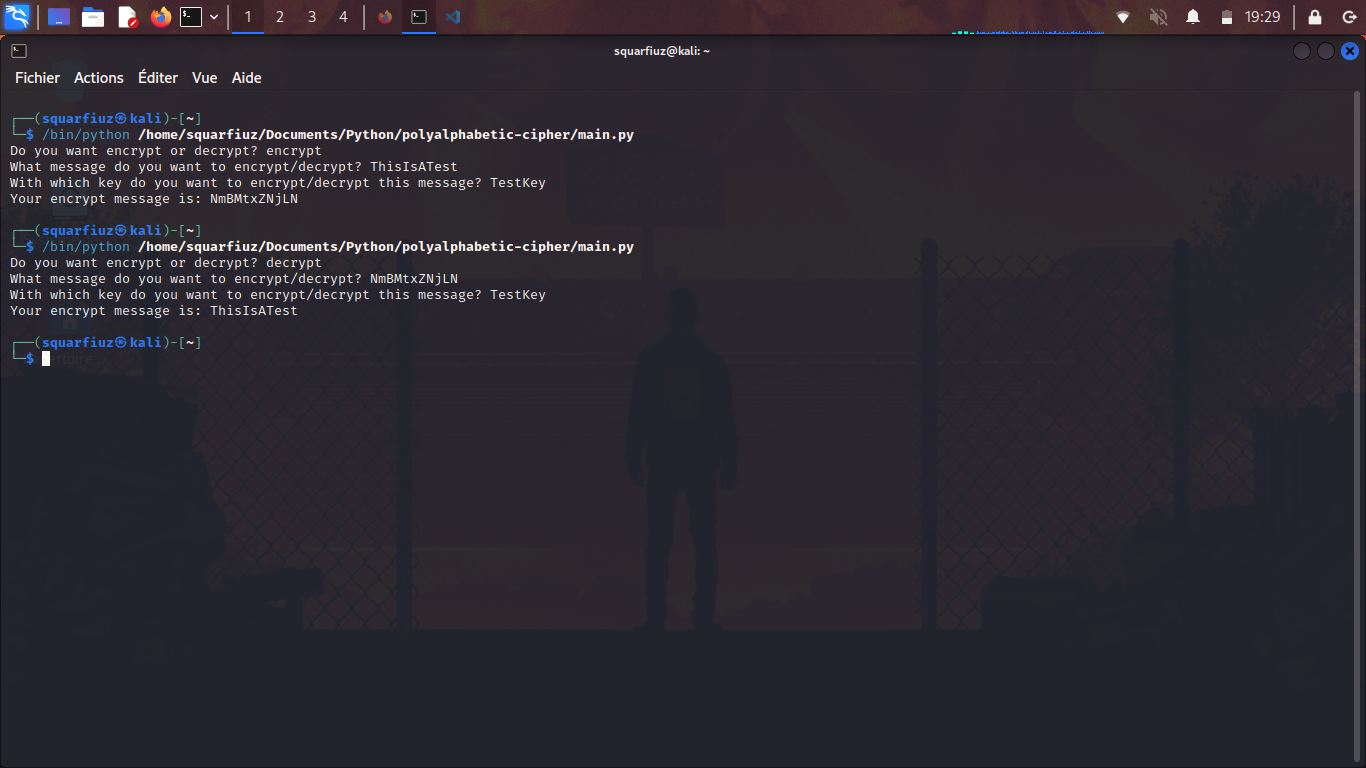
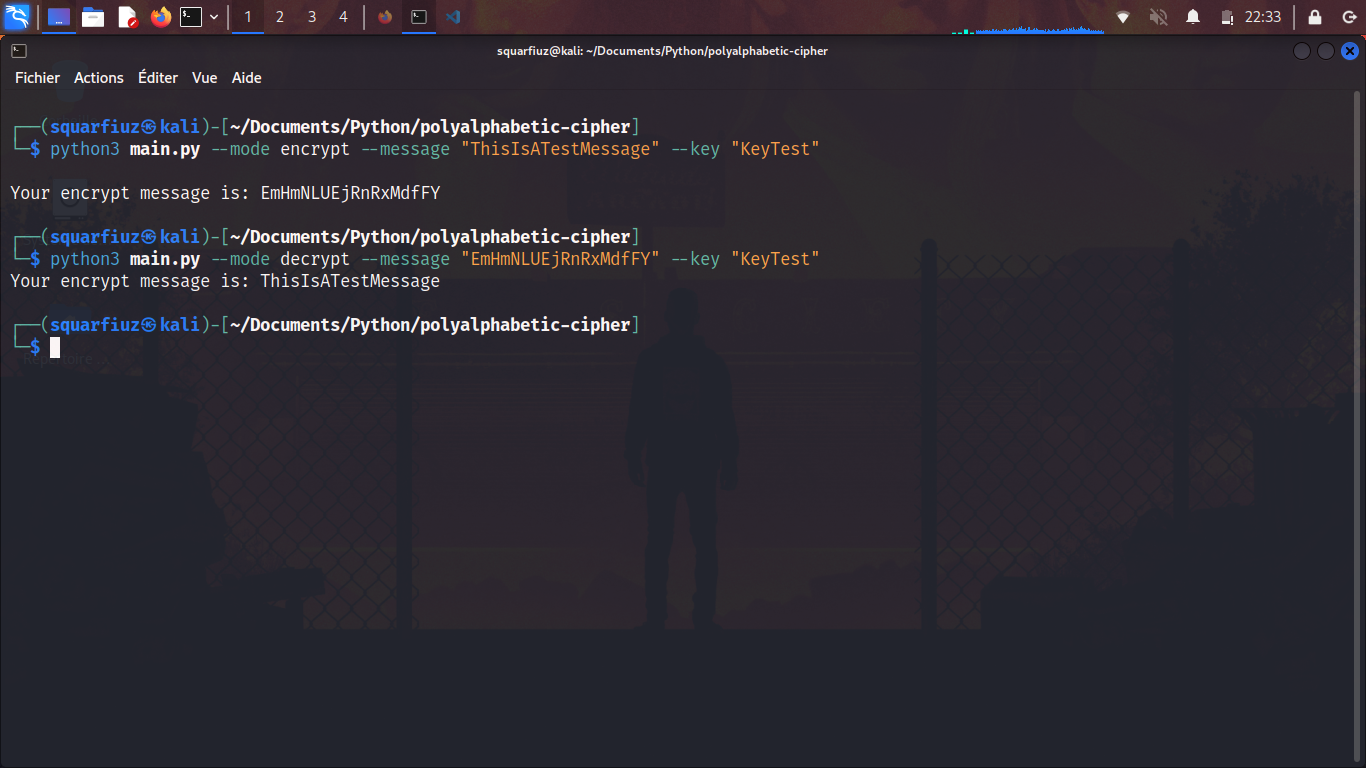
Add CLI

diff --git a/main.py b/main.py
@@ -1,17 +1,20 @@
-choice = str(input("Do you want encrypt or decrypt? "))
-if choice != "encrypt" and choice != "decrypt":
-    quit()
-message = str(input("What message do you want to encrypt/decrypt? ")).replace(" ", "")
-key = str(input("With which key do you want to encrypt/decrypt this message? ")).replace(" ", "")
+import argparse
+
+parser = argparse.ArgumentParser(description="Encrypt/Decrypt a message.")
+parser.add_argument("--mode", choices=["encrypt", "decrypt"], help="The mode of the program to be executed.")
+parser.add_argument("--message", help="The message to encrypt/decrypt (a-z A-Z).")
+parser.add_argument("--key", help="The key to encrypt/descrypt the message (a-z A-Z).")
+
+args = parser.parse_args()
 
 key_index = 0
 outpout_message = ""
 alphabet = list("abcdefghijklmnopqrstuvwxyzABCDEFGHIJKLMNOPQRSTUVWXYZ")
 
-for letter in message:
+for letter in args.message:
     letter_number_format = 0
-    if choice == "encrypt":
-        letter_number = (alphabet.index(letter) + 1) + (alphabet.index(key[key_index]) + 1)
+    if args.mode == "encrypt":
+        letter_number = (alphabet.index(letter) + 1) + (alphabet.index(args.key[key_index]) + 1)
 
 
         if letter_number > 52:
@@ -19,7 +22,7 @@ for letter in message:
         else:
             letter_number_format = letter_number
     else:
-        letter_number = (alphabet.index(letter) + 1) - (alphabet.index(key[key_index]) + 1)
+        letter_number = (alphabet.index(letter) + 1) - (alphabet.index(args.key[key_index]) + 1)
 
         if letter_number < 1:
             letter_number_format = letter_number + 52
@@ -28,7 +31,7 @@ for letter in message:
 
     outpout_letter = alphabet[letter_number_format - 1]
     outpout_message = outpout_message + outpout_letter
-    if key_index >= len(key) - 1:
+    if key_index >= len(args.key) - 1:
         key_index = 0
     else:
         key_index = key_index + 1

diff --git a/README.md b/README.md
@@ -4,12 +4,10 @@
 
 Type `python main.py` to run the program.
 
-First enter whether you want to encrypt or decrypt a message by typing `encrypt` or `decrypt`.
+### Options:
+`--mode`: The mode of the program to be executed.\
+`--message`: The message to encrypt/decrypt (a-z A-Z).\
+`--key`: The key to encrypt/descrypt the message (a-z A-Z).
 
-Then enter the message to be encrypted/decrypted.
-
-Finally give the key that will allow you to encrypt/decrypt the message.
-
-The program will give you the new encrypted/decrypted word.
 
 <img alt="Example" src="./example.png">
